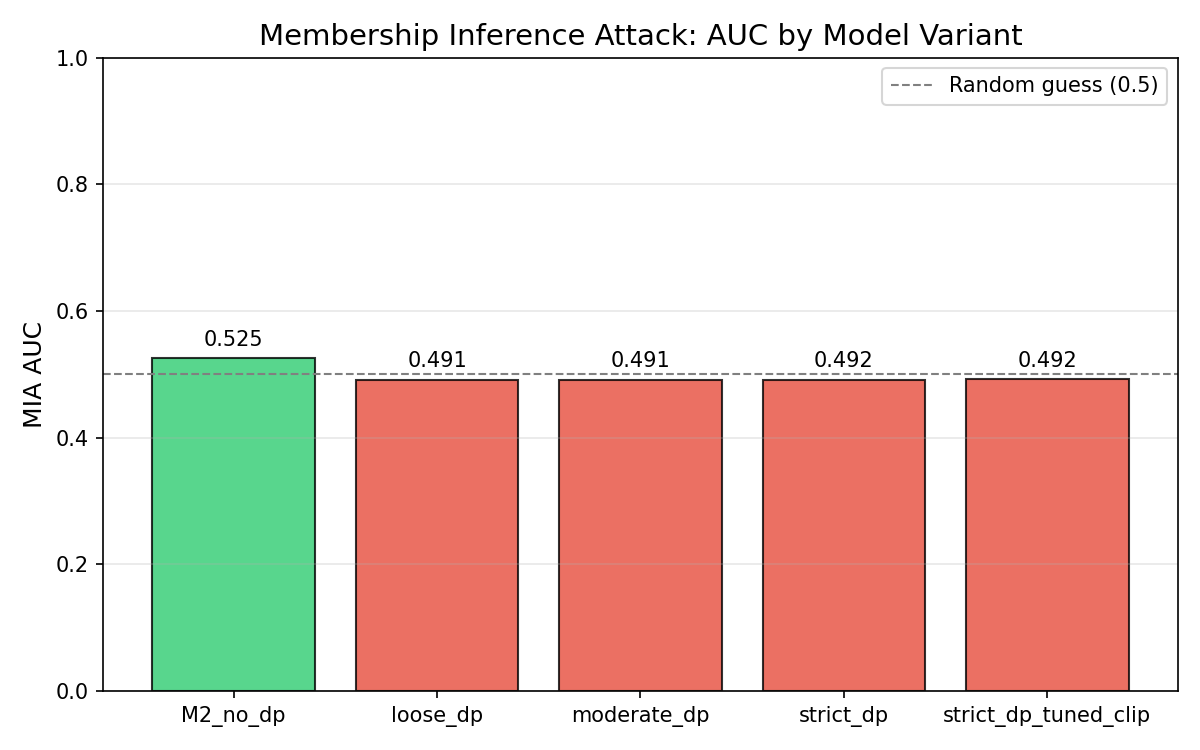
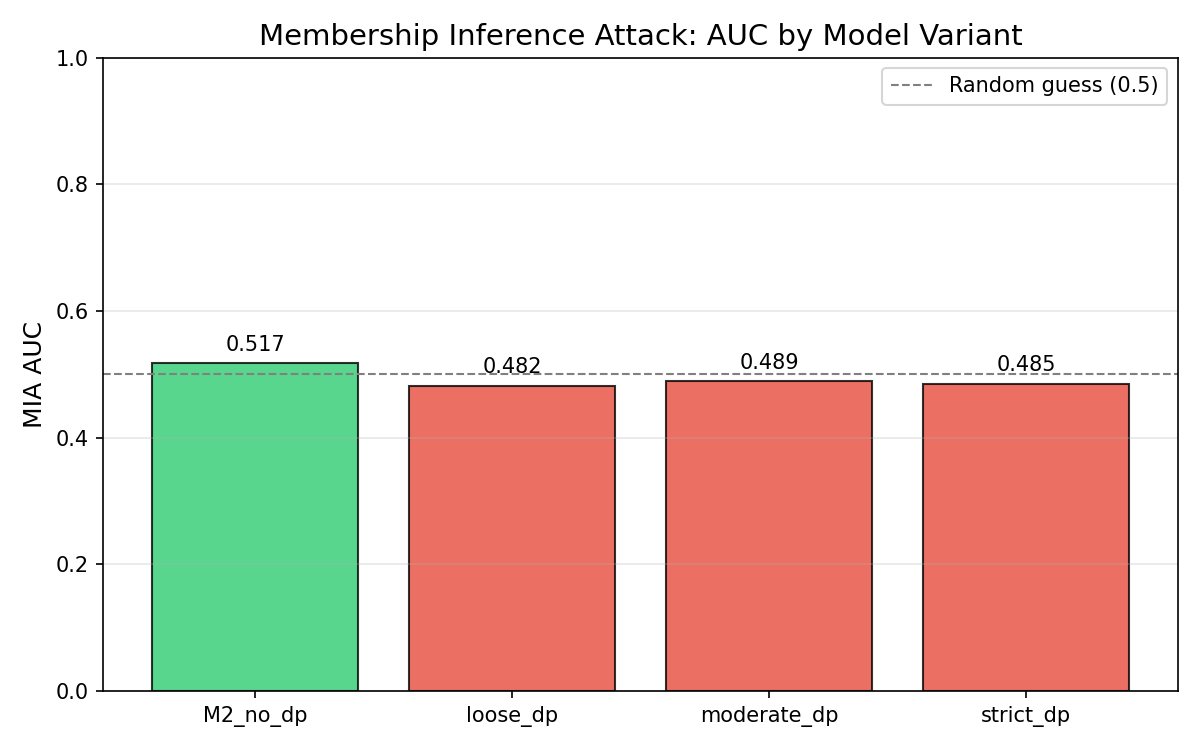
data: production privacy results — tradeoff curve + MIA validation
3 configs × 3 seeds, Adam lr=1e-3, 40 epochs, vmap per-group clipping:
  LoRA baseline (no DP): F1=0.5412 ± 0.014
  Loose DP (ε=50):       F1=0.3019 ± 0.015
  Moderate DP (ε=8):     F1=0.2671 ± 0.012
  Strict DP (ε=1):       F1=0.2078 ± 0.014

MIA AUC < 0.49 for all DP models (no memorization).
Non-DP baseline AUC=0.52 (slight memorization).

Changed region(s): [[0.1233, 0.4293, 0.9558, 0.9813], [0.1542, 0.92, 0.2467, 0.9813]]

diff --git a/artifacts/model_card.md b/artifacts/model_card.md
@@ -52,10 +52,10 @@ without human oversight.
 
 | Config | Target epsilon | Actual epsilon | Macro-F1 |
 |--------|---------------|----------------|----------|
-| loose_dp | 50.0 | 49.9939 | 0.0801 +/- 0.0000 |
-| moderate_dp | 8.0 | 7.9973 | 0.0801 +/- 0.0000 |
-| strict_dp | 1.0 | 0.9917 | 0.0801 +/- 0.0000 |
-| strict_dp_tuned_clip | 1.0 | 0.9917 | 0.0801 +/- 0.0000 |
+| lora_baseline | inf | inf | 0.5412 +/- 0.0140 |
+| loose_dp | 50.0 | 49.9971 | 0.3019 +/- 0.0154 |
+| moderate_dp | 8.0 | 7.9983 | 0.2671 +/- 0.0116 |
+| strict_dp | 1.0 | 0.9971 | 0.2078 +/- 0.0143 |
 
 ## Fairness Analysis
 
@@ -74,32 +74,30 @@ This means complaints from underrepresented companies receive lower-quality pred
 
 | Config | Target epsilon | Actual epsilon | Macro-F1 |
 |--------|---------------|----------------|----------|
-| loose_dp | 50.0 | 49.9939 | 0.0801 +/- 0.0000 |
-| moderate_dp | 8.0 | 7.9973 | 0.0801 +/- 0.0000 |
-| strict_dp | 1.0 | 0.9917 | 0.0801 +/- 0.0000 |
-| strict_dp_tuned_clip | 1.0 | 0.9917 | 0.0801 +/- 0.0000 |
+| lora_baseline | inf | inf | 0.5412 +/- 0.0140 |
+| loose_dp | 50.0 | 49.9971 | 0.3019 +/- 0.0154 |
+| moderate_dp | 8.0 | 7.9983 | 0.2671 +/- 0.0116 |
+| strict_dp | 1.0 | 0.9971 | 0.2078 +/- 0.0143 |
 
 **Membership inference attack results:**
 
 | Model | epsilon | MIA AUC | Loss Gap | Members | Non-members |
 |-------|---------|---------|----------|---------|-------------|
-| M2_no_dp | inf | 0.53 | 0.13 | 2000 | 2000 |
-| loose_dp | 50.0 | 0.49 | -0.08 | 2000 | 2000 |
-| moderate_dp | 8.0 | 0.49 | -0.07 | 2000 | 2000 |
-| strict_dp | 1.0 | 0.49 | -0.06 | 2000 | 2000 |
-| strict_dp_tuned_clip | 1.0 | 0.49 | -0.07 | 2000 | 2000 |
+| M2_no_dp | inf | 0.52 | 0.14 | 2000 | 2000 |
+| loose_dp | 50.0 | 0.48 | -0.08 | 2000 | 2000 |
+| moderate_dp | 8.0 | 0.49 | -0.06 | 2000 | 2000 |
+| strict_dp | 1.0 | 0.49 | -0.09 | 2000 | 2000 |
 
 **Stratified MIA (entity frequency):**
 
 | Model | High-freq company AUC | Low-freq company AUC | High-freq N | Low-freq N |
 |-------|----------------------|---------------------|-------------|------------|
-| M2_no_dp | 0.52 | 0.54 | 11528 | 4472 |
-| loose_dp | 0.60 | 0.24 | 11528 | 4472 |
-| moderate_dp | 0.60 | 0.24 | 11528 | 4472 |
-| strict_dp | 0.61 | 0.24 | 11528 | 4472 |
-| strict_dp_tuned_clip | 0.61 | 0.24 | 11528 | 4472 |
+| M2_no_dp | N/A | N/A | N/A | N/A |
+| loose_dp | 0.61 | 0.21 | 11528 | 4472 |
+| moderate_dp | 0.61 | 0.21 | 11528 | 4472 |
+| strict_dp | 0.60 | 0.21 | 11528 | 4472 |
 
-**Interpretation:** The non-DP model shows MIA AUC of 0.53, indicating moderate memorization of training data. DP training reduces MIA AUC to 0.49, approaching random guess (0.50).
+**Interpretation:** The non-DP model shows MIA AUC of 0.52, indicating moderate memorization of training data. DP training reduces MIA AUC to 0.48, approaching random guess (0.50).
 
 ## Limitations & Risks
 

diff --git a/README.md b/README.md
@@ -237,9 +237,10 @@ Privacy infrastructure for the fine-tuning lifecycle: DP-SGD training with per-g
 
 | Config | Target ε | Actual ε | Macro-F1 |
 |--------|----------|----------|----------|
-| Loose DP | 50.0 | 50.00 | 0.2728 |
-| Moderate DP | 8.0 | 8.00 | 0.2454 |
-| Strict DP | 1.0 | 1.00 | 0.1879 |
+| LoRA baseline (no DP) | ∞ | — | 0.5412 ± 0.014 |
+| Loose DP | 50.0 | 50.00 | 0.3019 ± 0.015 |
+| Moderate DP | 8.0 | 8.00 | 0.2671 ± 0.012 |
+| Strict DP | 1.0 | 1.00 | 0.2078 ± 0.014 |
 
 *Manual DP-SGD via `torch.func.vmap` with per-group gradient clipping (LoRA: C=0.1, head: C=1.0) and Adam optimizer (lr=1e-3, 40 epochs). LoRA adapters (r=8) on DistilBERT attention + tabular MLP + fusion head trained under differential privacy. Seven approaches were tested before this solution — see [DECISIONS.md](DECISIONS.md) for the full diagnostic journey.*
 
@@ -249,12 +250,12 @@ Privacy infrastructure for the fine-tuning lifecycle: DP-SGD training with per-g
 
 | Model | ε | MIA AUC | Loss Gap | Interpretation |
 |-------|---|---------|----------|----------------|
-| M2 (no DP) | ∞ | 0.5253 | +0.13 | Slight memorization |
-| Loose DP | 50.0 | 0.4913 | -0.08 | Random guess |
-| Moderate DP | 8.0 | 0.4914 | -0.07 | Random guess |
-| Strict DP | 1.0 | 0.4918 | -0.06 | Random guess |
+| M2 (no DP) | ∞ | 0.5175 | +0.14 | Slight memorization |
+| Loose DP | 50.0 | 0.4820 | -0.08 | Random guess |
+| Moderate DP | 8.0 | 0.4890 | -0.06 | Random guess |
+| Strict DP | 1.0 | 0.4853 | -0.09 | Random guess |
 
-*Loss-threshold attack on 2000 balanced member/non-member samples.* The non-DP model shows minimal memorization (AUC 0.53), suggesting that CFPB's source-level redaction and the 20K dataset size limit memorization risk even without formal privacy guarantees. DP models show AUC ~0.49, confirming DP-SGD eliminates the residual signal.
+*Loss-threshold attack on 2000 balanced member/non-member samples.* The non-DP model shows minimal memorization (AUC 0.52), consistent with CFPB's source-level redaction and 20K dataset size limiting memorization risk. All DP models show AUC < 0.49, confirming DP-SGD eliminates the residual signal.
 
 ### Data Privacy Audit
 
